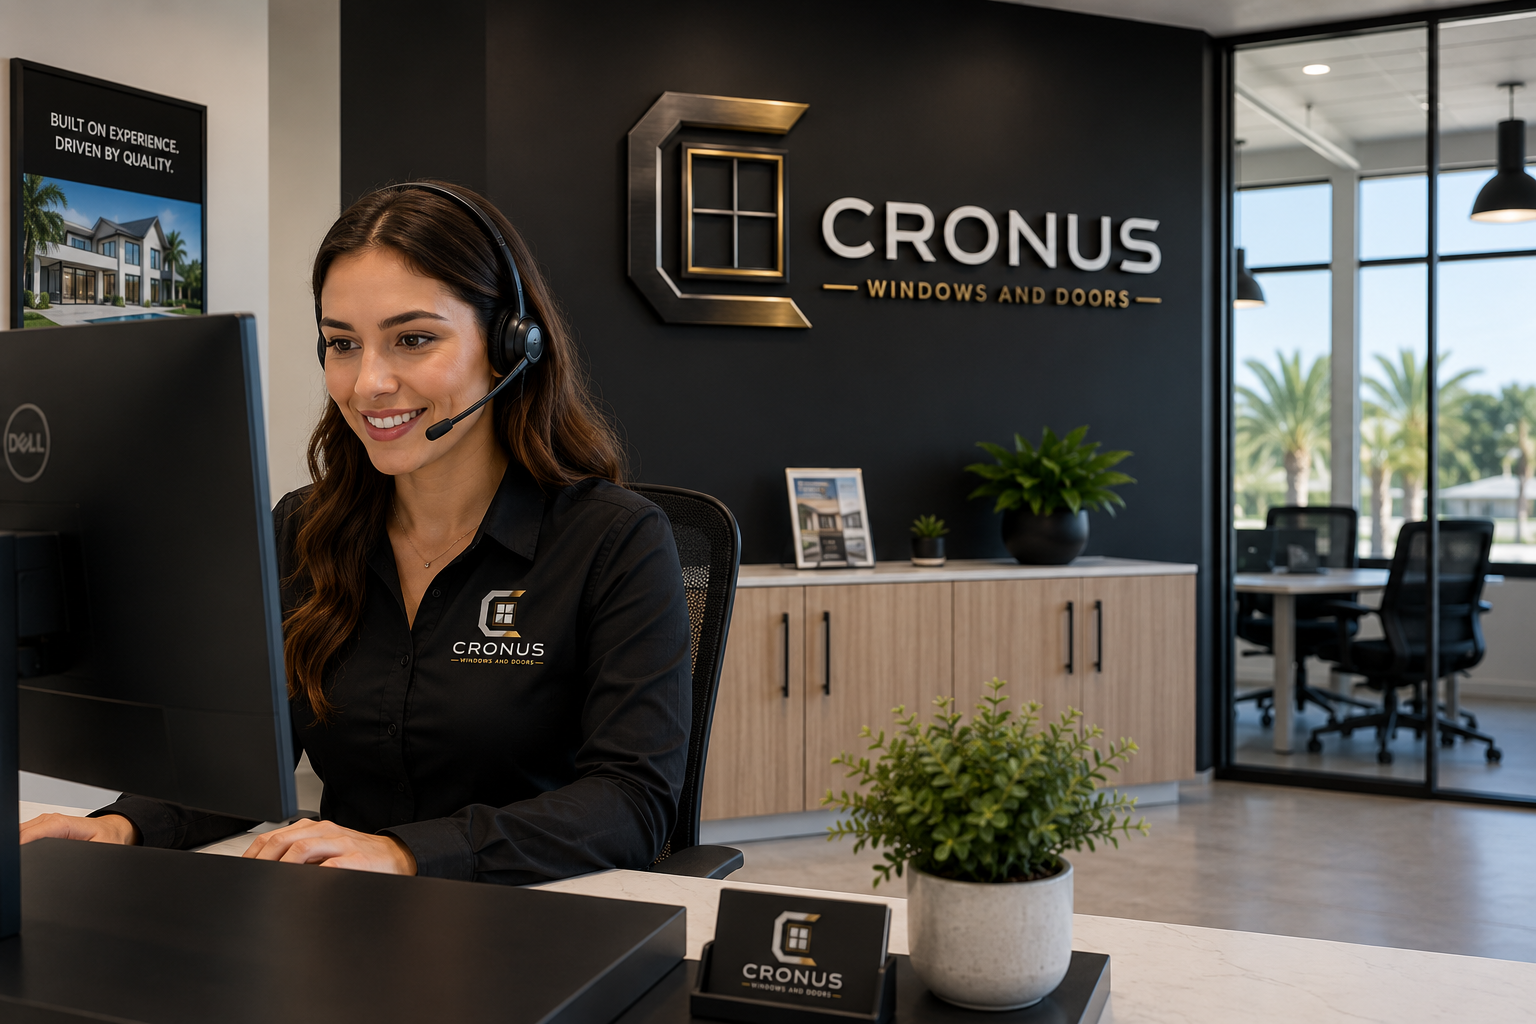
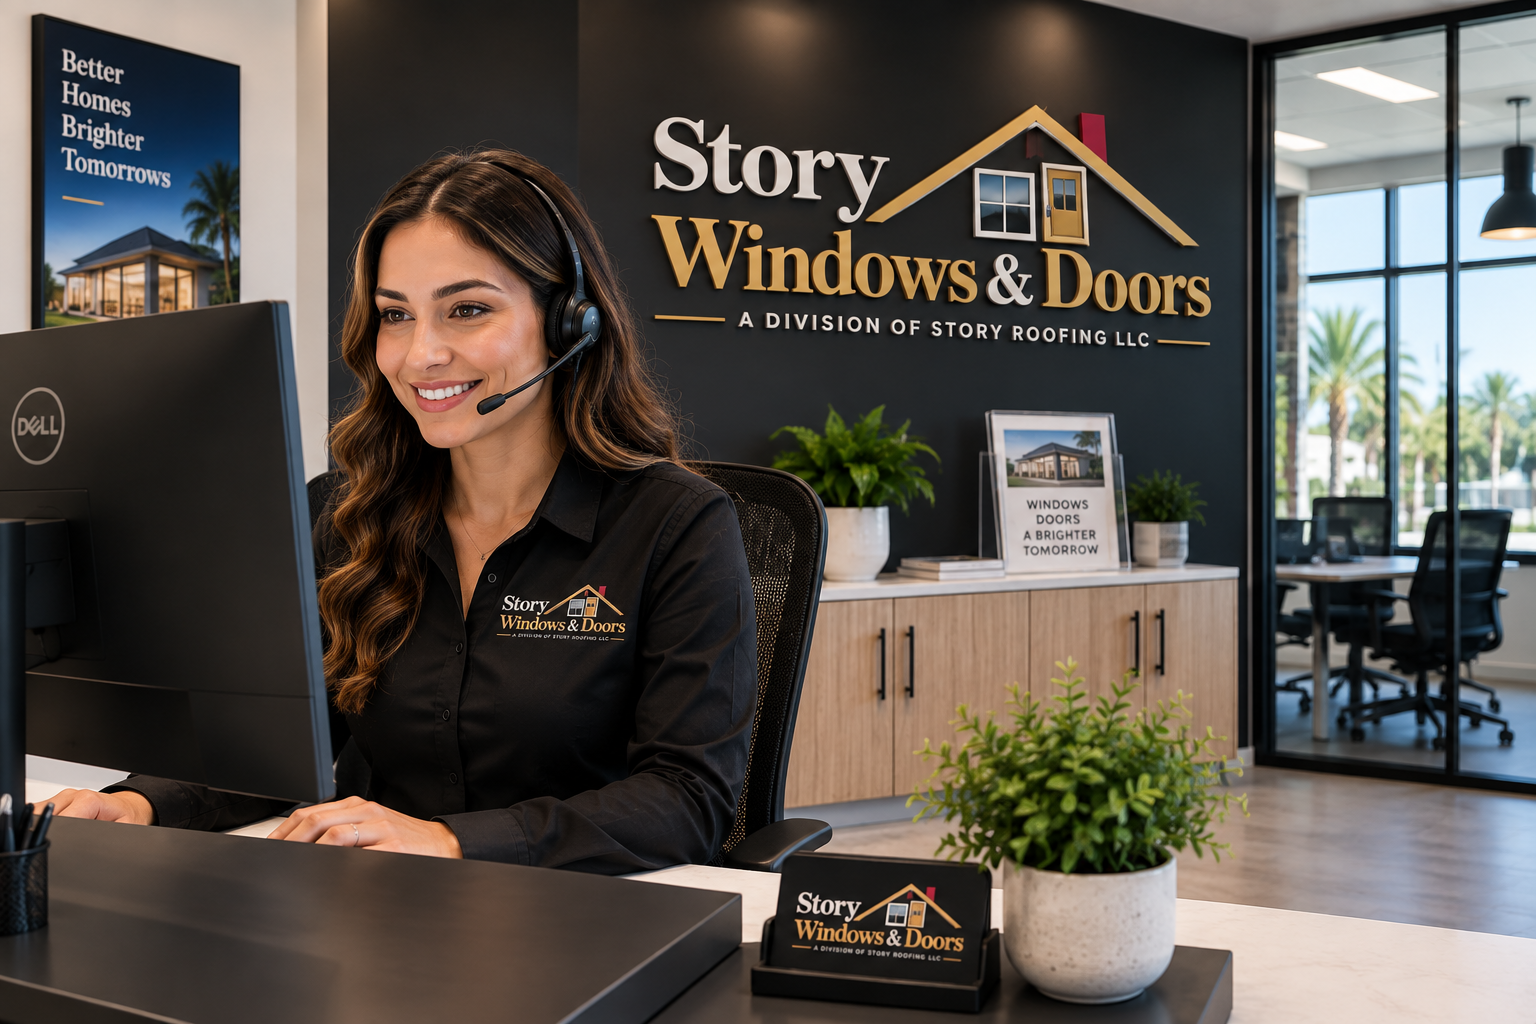
Rebrand website and portal for Story Windows and Doors

diff --git a/src/components/Navbar.tsx b/src/components/Navbar.tsx
@@ -1,5 +1,5 @@
 import { NavLink } from 'react-router-dom'
-import cronusLogo from '../assets/cronus-logo.png'
+import storyLogo from '../assets/story-windows-doors-logo.png'
 
 const navItems = [
   { label: 'Home', to: '/' },
@@ -15,16 +15,16 @@ const navItems = [
 function Navbar() {
   return (
     <header className="fixed inset-x-0 top-0 z-50 border-b border-[#F2F2F2] bg-white">
-      <div className="mx-auto flex h-50 max-w-[1550px] items-center justify-between px-10 lg:px-16">
+      <div className="mx-auto flex h-32 max-w-[1550px] items-center justify-between px-10 lg:px-16">
         <NavLink
           to="/"
-          aria-label="Cronus Home"
+          aria-label="Story Windows & Doors Home"
           className="shrink-0"
         >
           <img
-            src={cronusLogo}
-            alt="Cronus Windows and Doors"
-            className="h-45 w-auto object-contain"
+            src={storyLogo}
+            alt="Story Windows & Doors"
+            className="h-26 w-auto object-contain"
           />
         </NavLink>
 

diff --git a/src/components/Footer.tsx b/src/components/Footer.tsx
@@ -1,4 +1,4 @@
-import logo from '../assets/cronus-logo.png'
+import logo from '../assets/story-windows-doors-logo.png'
 
 function Footer() {
   return (
@@ -8,7 +8,7 @@ function Footer() {
           <div>
             <img
               src={logo}
-              alt="Cronus Windows and Doors"
+              alt="Story Windows & Doors"
               className="h-20 w-auto object-contain"
             />
 
@@ -90,7 +90,7 @@ function Footer() {
         </div>
 
         <div className="flex flex-col gap-4 pt-8 text-[13px] font-light text-[#A0A0A0] sm:flex-row sm:items-center sm:justify-between">
-          <p>© 2026 Cronus Windows & Doors LLC. All rights reserved.</p>
+          <p>© 2026 Story Windows & Doors. All rights reserved.</p>
 
           <p>Luxury service. Lasting quality.</p>
         </div>

diff --git a/src/components/PortalLayout.tsx b/src/components/PortalLayout.tsx
@@ -48,7 +48,7 @@ export default function PortalLayout() {
 
             <div>
               <p className="text-[11px] font-medium uppercase tracking-[0.28em] text-[#B59A68]">
-                Cronus Windows & Doors
+                Story Windows & Doors
               </p>
 
               <h1 className="mt-1 text-lg font-medium text-[#333333]">
@@ -160,7 +160,7 @@ export default function PortalLayout() {
 
           <div className="absolute bottom-6 left-5 right-5 rounded-2xl bg-[#222222] p-5 text-white">
             <p className="text-[11px] font-medium uppercase tracking-[0.22em] text-[#B59A68]">
-              Cronus Portal
+              Story Portal
             </p>
 
             <p className="mt-3 text-sm leading-6 text-white/60">

diff --git a/src/pages/Contact.tsx b/src/pages/Contact.tsx
@@ -69,7 +69,7 @@ export default function Contact() {
           <div>
             <img
               src={contactImage}
-              alt="Cronus Customer Service"
+              alt="Story Windows & Doors Customer Service"
               className="rounded-3xl shadow-2xl"
             />
           </div>
